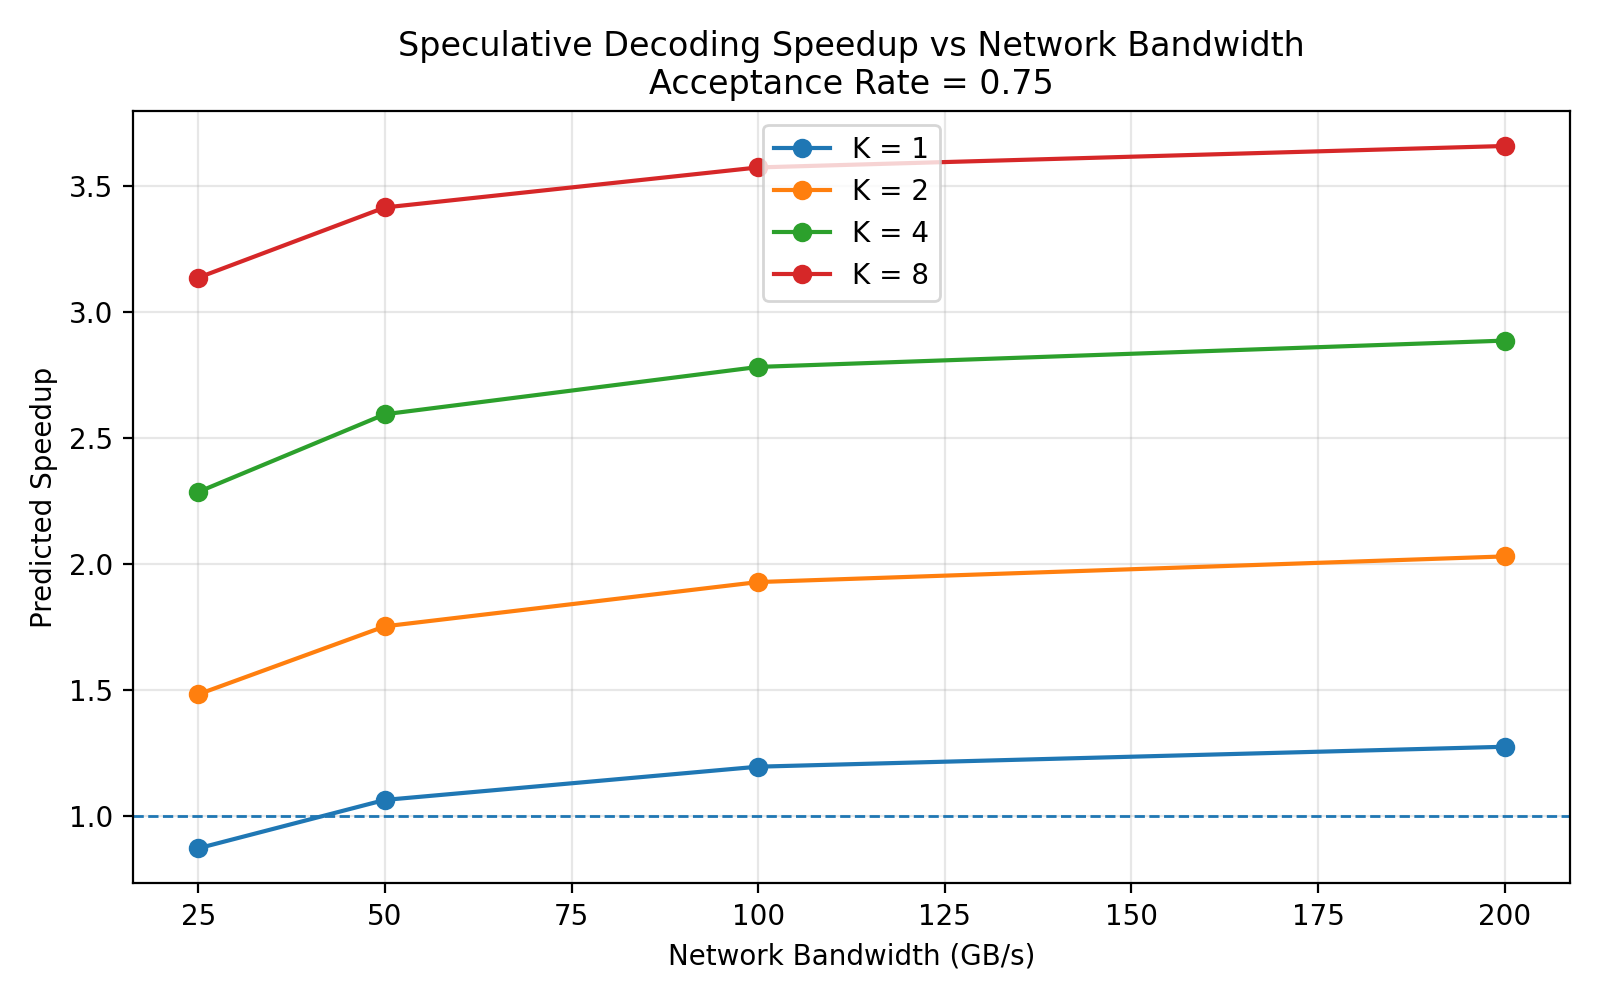
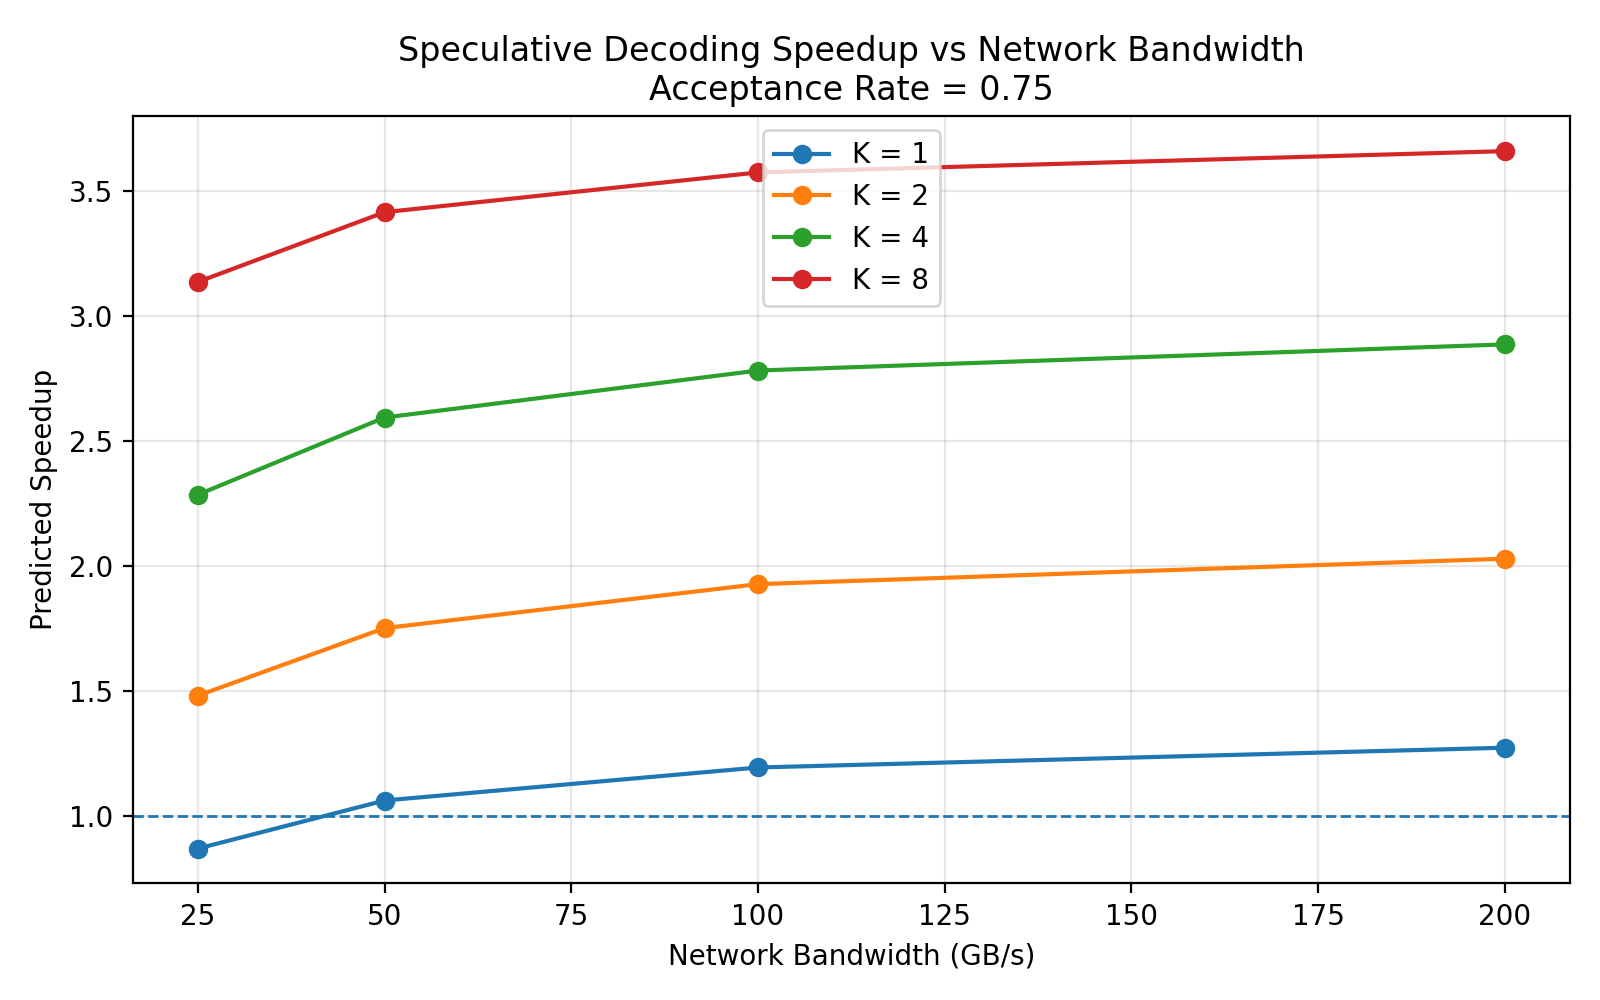
flowcharts

diff --git a/flowcharts.md b/flowcharts.md
@@ -1,0 +1,27 @@
+# flowcharts.md
+
+---
+
+## Current
+
+```mermaid
+flowchart TD
+    A[Python workload generator] --> B[Event graph]
+    B --> C[Chakra trace converter]
+    C --> D[Per-rank execution traces]
+    D --> E[ASTRA-sim workload execution]
+    E --> F[Analytical network backend]
+    F --> G[Completion times and logs]
+```
+
+## TODO
+
+```mermaid
+flowchart TD
+    A[Python event: decode-critical message] --> B[Chakra attribute: traffic class]
+    B --> C[ASTRA-sim reads attribute]
+    C --> D[Send request carries traffic class]
+    D --> E[Backend packet carries traffic class]
+    E --> F[Router uses class when choosing service]
+    F --> G[Completion callback unblocks dependent work]
+```
